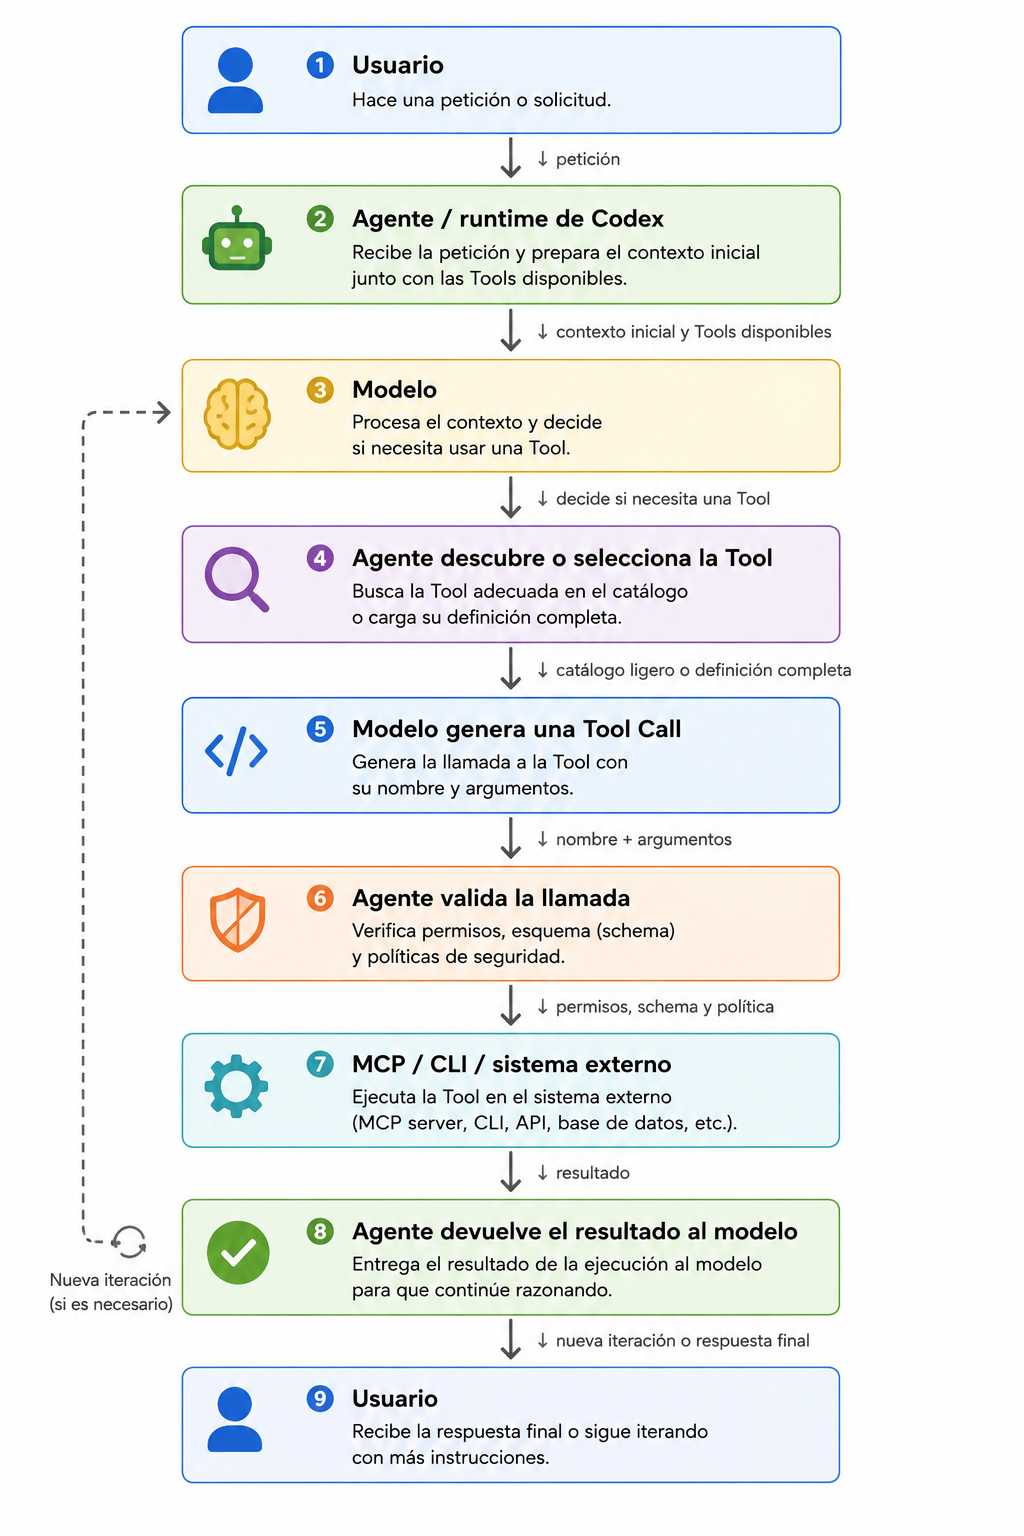
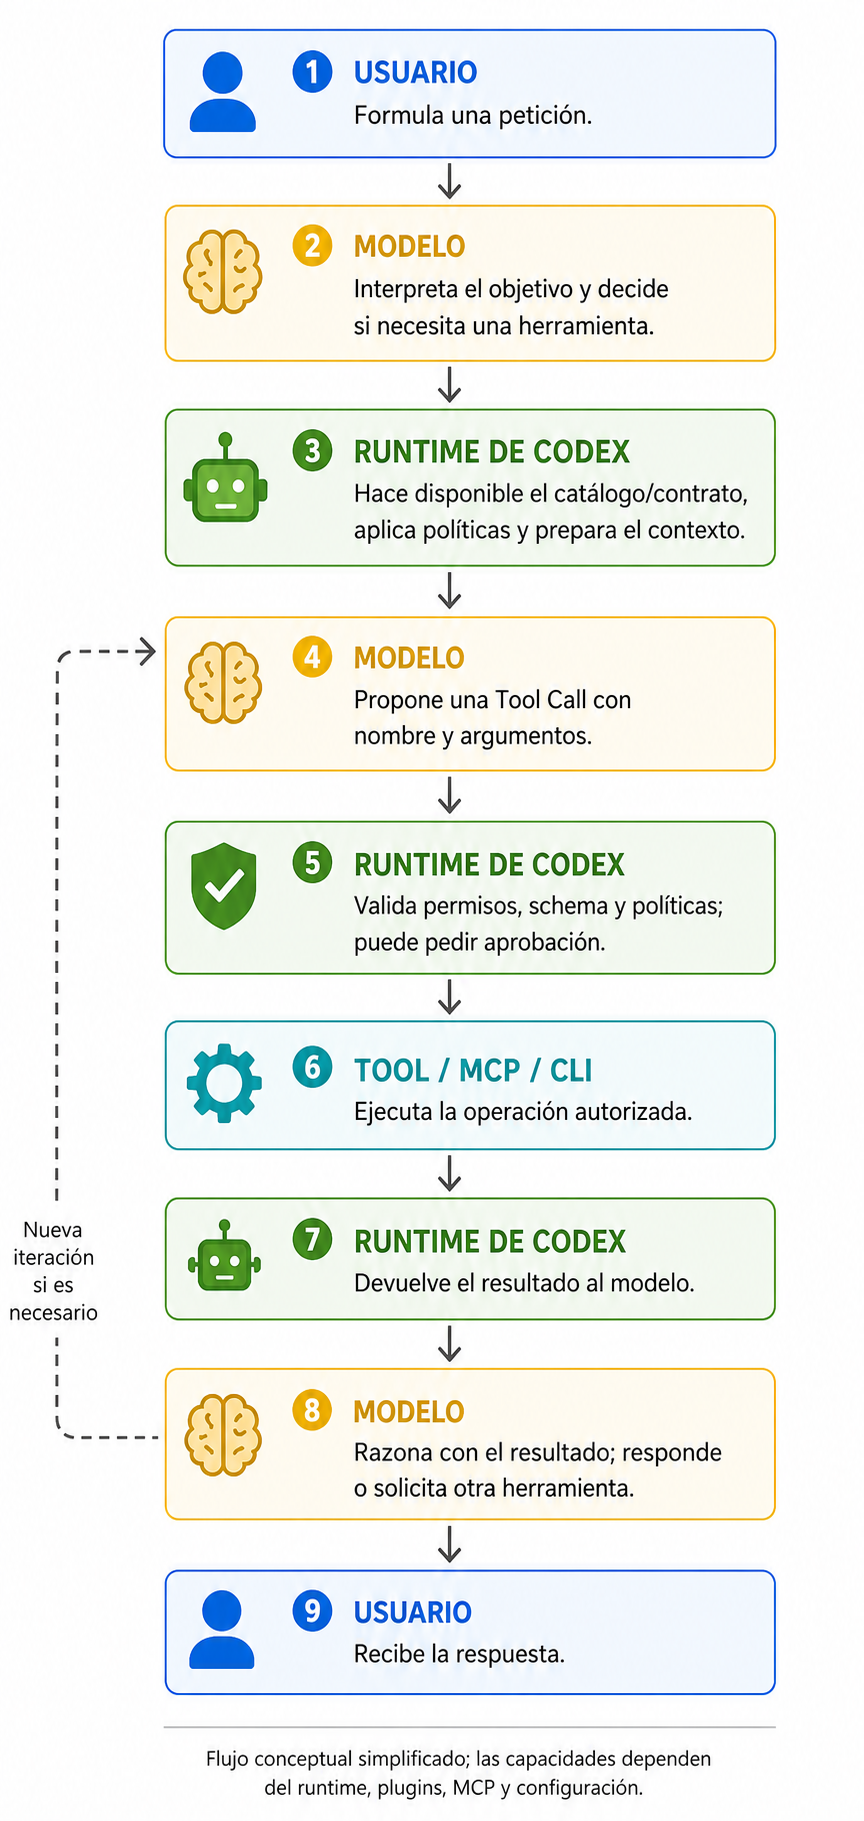
docs/modify-guia-practica-tools-en-codex

diff --git a/docs/03-tools/09-guia-practica-tools-en-codex.md b/docs/03-tools/09-guia-practica-tools-en-codex.md
@@ -1,31 +1,53 @@
 # Guía práctica de Tools en Codex para VS Code
 
-Esta guía reúne el flujo completo para descubrir, cargar y ejecutar Tools cuando trabajamos con **Codex dentro de VS Code**. El objetivo es distinguir el patrón conceptual de las capacidades concretas que ofrece cada runtime.
+Esta guía explica el flujo conceptual para descubrir, cargar y ejecutar herramientas cuando trabajamos con Codex dentro de VS Code. Su objetivo es separar tres elementos que a menudo se mezclan:
+
+- El **modelo**, que interpreta el objetivo y propone llamadas.
+- El **runtime de Codex**, que proporciona el contexto, aplica políticas y coordina la ejecución.
+- La **Tool**, que realiza una operación concreta mediante un mecanismo autorizado.
+
+> Esta guía describe un patrón conceptual. Las Tools disponibles y el flujo exacto dependen de la versión de Codex, la configuración de VS Code, las Skills, los plugins, los servidores MCP y las políticas del entorno.
 
 ## 1. Flujo canónico
 
-Un agente no ejecuta directamente una Tool porque el usuario la mencione. El runtime y el modelo colaboran en varias fases. El siguiente diagrama resume el flujo completo:
+Un modelo no ejecuta directamente una Tool solo porque el usuario la mencione. El runtime expone las capacidades disponibles, el modelo propone una invocación y el runtime decide si puede ejecutarse según los permisos y las políticas aplicables.
 
-![Flujo canónico de ejecución de Tools en Codex para VS Code](../../assets/images/tools/codex-tools-flow.png)
+![Flujo conceptual de ejecución de Tools en Codex para VS Code](/assets/images/tools/codex-tools-flow.png)
 
-La decisión del modelo no equivale a la ejecución. El agente o runtime es responsable de aplicar permisos, validar argumentos y ejecutar la operación autorizada.
+El ciclo puede resumirse así:
+
+1. **Usuario**: formula una petición.
+2. **Modelo**: interpreta el objetivo y decide si necesita una herramienta.
+3. **Runtime de Codex**: proporciona el catálogo o contrato disponible y prepara el contexto.
+4. **Modelo**: propone una Tool Call con nombre y argumentos.
+5. **Runtime de Codex**: valida permisos, esquema, políticas y, cuando corresponde, solicita aprobación.
+6. **Tool**: ejecuta la operación autorizada mediante MCP, CLI, API u otro mecanismo configurado.
+7. **Runtime de Codex**: devuelve el resultado al modelo.
+8. **Modelo**: razona con el resultado y responde o solicita otra herramienta.
+9. **Usuario**: recibe la respuesta final.
+
+La decisión del modelo no equivale a la ejecución. La separación importante es:
+
+```text
+Modelo propone → Runtime valida y coordina → Tool ejecuta → Runtime devuelve → Modelo razona
+```
 
 ## 2. Tres capas que no deben confundirse
 
-### Catálogo
+### 2.1 Catálogo
 
-Es el inventario mínimo que permite saber que existe una capacidad:
+El catálogo es un inventario ligero que permite saber que existe una capacidad. Puede incluir el nombre, una descripción breve, la categoría, palabras clave y algunos metadatos.
 
 ```text
-execute_query → ejecutar una consulta contra PostgreSQL
+execute_query  → ejecutar una consulta contra PostgreSQL
 describe_table → obtener la estructura de una tabla
 ```
 
-Puede incluir nombre, descripción breve, categoría, palabras clave o metadatos. Su objetivo es facilitar el descubrimiento con poco contexto.
+Su objetivo es facilitar el descubrimiento sin cargar el contrato completo de todas las Tools.
 
-### Definición o contrato
+### 2.2 Definición o contrato
 
-Es la información necesaria para utilizar la Tool correctamente:
+El contrato contiene la información necesaria para utilizar una Tool correctamente: descripción, esquema de argumentos, restricciones, ejemplos y posibles errores.
 
 ```json
 {
@@ -41,28 +63,39 @@ Es la información necesaria para utilizar la Tool correctamente:
 }
 ```
 
-Incluye descripción, schema de argumentos, restricciones, ejemplos y posibles errores. No debería cargarse para todas las Tools si no es necesario.
+El contrato no concede permisos por sí mismo. Las políticas y permisos efectivos pertenecen al runtime y al sistema que ejecuta la operación.
 
-### Invocación y resultado
+### 2.3 Invocación y resultado
 
-La invocación es la llamada concreta que el modelo propone y el agente valida:
+La invocación es la llamada concreta que el modelo propone:
 
 ```text
 Tool Call: execute_query
 Arguments: { "query": "SELECT count(*) FROM users" }
 ```
 
-El resultado vuelve al modelo como contexto dinámico. El modelo puede responder al usuario o solicitar otra Tool si el objetivo aún no está cumplido.
+El runtime debe validar el nombre, los argumentos, el esquema y las políticas antes de ejecutar. El resultado se devuelve al modelo como contexto dinámico; a partir de ahí puede responder, corregir la llamada o solicitar otra Tool.
 
 ## 3. Aplicación en VS Code con Codex
 
-En este proyecto VS Code proporciona la interfaz y Codex actúa como agente. Las extensiones o servidores conectados pueden exponer Tools MCP; el terminal permite ejecutar CLI y scripts. Las Skills y `AGENTS.md` describen reglas y procedimientos, pero no son Tools por sí mismas.
+VS Code proporciona la interfaz de trabajo y Codex actúa como agente dentro del runtime configurado. En una instalación pueden convivir varios mecanismos:
 
-La [extensión IDE de Codex](https://developers.openai.com/codex/ide) debe considerarse el punto de entrada de la sesión. La disponibilidad concreta de Tools, búsqueda y aprobación depende de la versión instalada, la configuración y los servidores conectados.
+| Mecanismo | Uso habitual |
+| --- | --- |
+| Tools integradas | Capacidades proporcionadas directamente por el entorno de Codex. |
+| MCP | Conexión con servidores que exponen herramientas estructuradas. |
+| CLI y terminal | Ejecución de comandos, scripts y validadores locales. |
+| API o servicios externos | Operaciones remotas a través de integraciones autorizadas. |
+| Skills | Procedimientos e instrucciones reutilizables; no son Tools por sí mismas. |
+| `AGENTS.md` | Reglas de trabajo y contexto persistente; no es un catálogo ejecutable. |
 
-No se debe asumir que Codex reproduce el mecanismo interno de Filesystem Retrieval de Cursor ni el Tool Search de Claude. En cada instalación hay que comprobar qué capacidades aparecen realmente en el panel de Codex y qué operaciones puede ejecutar el agente.
+La [documentación oficial de la extensión IDE de Codex](https://developers.openai.com/codex/ide) es el punto de referencia para la instalación y el uso en el editor. La disponibilidad concreta de Tools, MCP, Skills, búsqueda y aprobación depende de la versión instalada y de la configuración del entorno.
 
-## 4. Implementar Filesystem Retrieval de forma portable
+En la API de OpenAI, las categorías de herramientas incluyen Tools integradas, MCP Tools y llamadas de funciones definidas por el desarrollador. Esa clasificación es útil como modelo conceptual, pero no debe interpretarse como una garantía de que todas esas capacidades estén disponibles en cada instalación de Codex. Consulta siempre las capacidades expuestas por el runtime que estás utilizando.
+
+No se debe asumir que Codex reproduce exactamente los mecanismos internos de otros productos, como Filesystem Retrieval de Cursor o Tool Search de Claude. Las herramientas, los catálogos y los mecanismos de carga deben comprobarse en cada entorno.
+
+## 4. Implementar un catálogo portable
 
 Cuando el runtime no ofrece una búsqueda nativa de Tools, se puede versionar un catálogo ligero dentro del workspace:
 
@@ -83,7 +116,7 @@ tools/
 - `describe_table`: consultar columnas y tipos de una tabla.
 ```
 
-`execute-query.md` contiene el contrato completo, por ejemplo:
+`execute-query.md` contiene el contrato completo:
 
 ```markdown
 # execute_query
@@ -104,15 +137,16 @@ Devuelve filas y metadatos de columnas.
 
 El flujo portable sería:
 
-1. El usuario pregunta: “¿Cuántos usuarios hay registrados?”.
-2. Codex identifica que necesita consultar una base de datos.
-3. El agente busca `execute_query` en el índice.
-4. Lee `execute-query.md` para cargar el contrato completo.
+1. El usuario pregunta cuántos usuarios hay registrados.
+2. El modelo identifica que necesita consultar una base de datos.
+3. El runtime o el agente busca `execute_query` en el índice.
+4. Se lee el contrato completo de `execute_query`.
 5. El modelo propone la llamada y sus argumentos.
-6. El agente valida la consulta y la ejecuta mediante el MCP autorizado.
-7. El resultado se devuelve al modelo para redactar la respuesta.
+6. El runtime valida la consulta y sus permisos.
+7. La Tool autorizada ejecuta la operación.
+8. El resultado vuelve al modelo para redactar la respuesta.
 
-En Codex, esta búsqueda puede apoyarse en las Tools de filesystem disponibles, `rg`, una Skill o un índice propio. El hecho de que los archivos existan en el workspace no garantiza por sí solo que el modelo los haya leído.
+En Codex, esta búsqueda puede apoyarse en Tools de filesystem disponibles, `rg`, una Skill o un índice propio. Que los archivos existan en el workspace no garantiza por sí solo que el modelo los haya leído.
 
 ## 5. Seguridad del contexto recuperado
 
@@ -121,55 +155,56 @@ Un archivo recuperado es información para razonar, no una autorización automá
 Aplicar siempre estas reglas:
 
 - Separar documentación, datos y políticas de ejecución.
-- No permitir que una definición recuperada eleve permisos o cambie las reglas del agente.
+- No permitir que una definición recuperada eleve permisos o cambie las reglas del runtime.
 - Validar el nombre de la Tool y sus argumentos contra el contrato real.
 - Aplicar allowlists para operaciones destructivas o con acceso a datos sensibles.
 - Solicitar aprobación humana antes de escribir, borrar, publicar o modificar sistemas externos.
 - Tratar el contenido del workspace como potencialmente no confiable si procede de terceros.
-- No desactivar validación TLS ni registrar secretos en prompts, resultados o trazas.
-- Registrar la Tool lógica, identidad, operación, resultado resumido, latencia y motivo de rechazo, sin almacenar credenciales.
+- No desactivar la validación TLS.
+- No registrar secretos en prompts, resultados, trazas ni archivos versionados.
+- Registrar la Tool lógica, identidad, operación, resultado resumido, latencia y motivo de rechazo sin almacenar credenciales.
 
-El patrón de Filesystem Retrieval amplía el contexto dinámico, pero también amplía la superficie de prompt injection. La recuperación debe reducir contexto, no eliminar controles.
+El retrieval amplía el contexto dinámico, pero también amplía la superficie de prompt injection. Recuperar más información no sustituye la validación ni los controles de permisos.
 
 ## 6. Medición y comparación
 
-No es correcto trasladar directamente a Codex porcentajes publicados por Cursor o Anthropic. Las cifras dependen del modelo, runtime, catálogo, caché, tarea y metodología.
+No es correcto trasladar directamente a Codex porcentajes publicados para otros productos. Las cifras dependen del modelo, el runtime, el catálogo, la caché, la tarea y la metodología.
 
-Para comparar una estrategia en este proyecto, registrar al menos:
+Para comparar estrategias en este proyecto, registrar al menos:
 
 | Métrica | Qué indica |
-|---|---|
-| Tokens de contexto inicial | Coste de cargar prompt, catálogo y reglas |
-| Tokens totales | Coste completo de descubrimiento y ejecución |
-| Latencia | Tiempo añadido por búsqueda y carga del contrato |
-| Tools recuperadas | Precisión y tamaño de la selección |
-| Tool Calls inválidas | Calidad del contrato y de la validación |
-| Tasa de éxito | Porcentaje de tareas completadas correctamente |
-| Aprobaciones y rechazos | Riesgo operativo y fricción para el usuario |
-| Coste | Impacto económico del workflow |
+| --- | --- |
+| Tokens de contexto inicial | Coste de cargar prompt, catálogo y reglas. |
+| Tokens totales | Coste completo de descubrimiento y ejecución. |
+| Latencia | Tiempo añadido por la búsqueda y la carga del contrato. |
+| Tools recuperadas | Precisión y tamaño de la selección. |
+| Tool Calls inválidas | Calidad del contrato y de la validación. |
+| Tasa de éxito | Porcentaje de tareas completadas correctamente. |
+| Aprobaciones y rechazos | Riesgo operativo y fricción para el usuario. |
+| Coste | Impacto económico del workflow. |
 
 La comparación mínima debería ejecutar el mismo conjunto de tareas con tres configuraciones:
 
-1. Todas las definiciones upfront.
-2. Catálogo ligero más Filesystem Retrieval.
-3. Tool Search nativo, si el runtime utilizado lo ofrece.
+1. Todas las definiciones cargadas upfront.
+2. Catálogo ligero más retrieval desde filesystem.
+3. Tool Search nativo, únicamente si el runtime utilizado lo ofrece y está verificado.
 
 El resultado debe incluir calidad, coste y latencia. Ahorrar tokens no compensa recuperar una Tool incorrecta o ejecutar una operación insegura.
 
 ## 7. Tabla de decisión
 
 | Necesidad | Mecanismo recomendado en VS Code + Codex |
-|---|---|
-| Tool crítica y usada en casi todas las tareas | Definición upfront |
-| Muchas Tools especializadas | Catálogo ligero y retrieval |
-| Búsqueda gestionada por el runtime | Tool Search, solo si está disponible y verificado |
-| Operaciones sobre el repositorio | CLI, terminal y Skills |
-| Operaciones estructuradas sobre Power BI | MCP conectado al modelo o servicio autorizado |
-| Procedimiento reutilizable | Skill |
-| Inicio explícito de un workflow | Command o petición explícita al agente |
-| Documentación o métricas de negocio | Archivos versionados y recuperación bajo demanda |
+| --- | --- |
+| Tool crítica y usada en casi todas las tareas | Definición upfront. |
+| Muchas Tools especializadas | Catálogo ligero y retrieval. |
+| Búsqueda gestionada por el runtime | Tool Search, solo si está disponible y verificado. |
+| Operaciones sobre el repositorio | CLI, terminal y Skills. |
+| Operaciones estructuradas sobre Power BI o Fabric | MCP conectado al servicio autorizado. |
+| Procedimiento reutilizable | Skill. |
+| Inicio explícito de un workflow | Command o petición explícita al agente. |
+| Documentación o métricas de negocio | Archivos versionados y recuperación bajo demanda. |
 
-La decisión debe considerar también permisos, auditabilidad, latencia, coste y facilidad de mantenimiento.
+La decisión debe considerar permisos, auditabilidad, latencia, coste y facilidad de mantenimiento.
 
 ## 8. Regla práctica para este repositorio
 
@@ -177,13 +212,27 @@ Para trabajar con Codex en VS Code:
 
 1. Mantener las reglas generales en `AGENTS.md`.
 2. Mantener procedimientos reutilizables en `skills/`.
-3. Usar MCP para capacidades estructuradas de Power BI/Fabric.
+3. Usar MCP para capacidades estructuradas de Power BI y Fabric.
 4. Usar CLI para Git, validadores, tests y scripts locales.
-5. Usar archivos de documentación para el conocimiento de negocio que no deba cargarse siempre.
+5. Usar archivos de documentación para conocimiento de negocio que no deba cargarse siempre.
 6. Pedir a Codex que compruebe las Tools disponibles antes de asumir que existe una capacidad.
 7. Revisar y validar cada Tool Call antes de permitir efectos externos.
 
-La configuración y los servidores MCP concretos de este proyecto se documentan en [Configuración de MCP en Codex para VS Code](../04-integraciones/01-configuracion.md).
+## 9. Glosario breve
+
+- **Tool**: capacidad ejecutable que realiza una operación concreta.
+- **Tool Call**: invocación propuesta con un nombre y unos argumentos.
+- **Runtime**: capa que coordina el modelo, el contexto, las políticas y la ejecución.
+- **MCP**: protocolo y mecanismo para conectar servidores que exponen herramientas.
+- **Catálogo**: inventario ligero de capacidades disponibles.
+- **Contrato**: definición detallada de una Tool y de sus argumentos.
+- **Skill**: procedimiento o conjunto de instrucciones reutilizables; no es una Tool automáticamente.
+- **Retrieval**: recuperación selectiva de información para incorporarla al contexto.
+
+## Referencias
+
+- [Extensión IDE de Codex](https://developers.openai.com/codex/ide)
+- [Referencia oficial de Responses API: Tools](https://developers.openai.com/api/reference/cli/resources/responses/methods/create)
 
 ---
 
